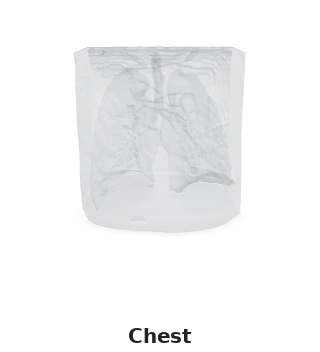
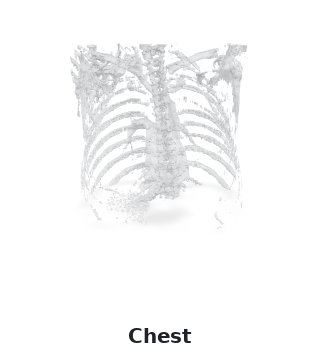
Show clearer Chest Abdomen and Pancreas visualization previews

Changed region(s): [[0.2188, 0.125, 0.7812, 0.6875]]

diff --git a/README.md b/README.md
@@ -34,9 +34,9 @@ This is the official implementation of our ECCV 2024 paper "Radiative Gaussian S
 
 <h3 align="center"><img src="fig/exported-mesh-heading.svg" width="600" height="40" alt="Exported Meshes - Click each to open its interactive viewer"></h3>
 
-<p align="center"><a href="https://caiyuanhao1998.github.io/project/X-Gaussian/viewer/index.html?scene=chest"><img src="fig/meshes/chest.png?v=front15" width="24%" alt="Chest exported mesh" title="Open interactive X-ray viewer"></a><a href="https://caiyuanhao1998.github.io/project/X-Gaussian/viewer/index.html?scene=foot"><img src="fig/meshes/foot.png?v=front15" width="24%" alt="Foot exported mesh" title="Open interactive X-ray viewer"></a><a href="https://caiyuanhao1998.github.io/project/X-Gaussian/viewer/index.html?scene=head"><img src="fig/meshes/head.png?v=front15" width="24%" alt="Head exported mesh" title="Open interactive X-ray viewer"></a><a href="https://caiyuanhao1998.github.io/project/X-Gaussian/viewer/index.html?scene=abdomen"><img src="fig/meshes/abdomen.png?v=front15" width="24%" alt="Abdomen exported mesh" title="Open interactive X-ray viewer"></a></p>
+<p align="center"><a href="https://caiyuanhao1998.github.io/project/X-Gaussian/viewer/index.html?scene=chest"><img src="fig/meshes/chest.png?v=clean-ring" width="24%" alt="Chest exported mesh" title="Open interactive X-ray viewer"></a><a href="https://caiyuanhao1998.github.io/project/X-Gaussian/viewer/index.html?scene=foot"><img src="fig/meshes/foot.png?v=front15" width="24%" alt="Foot exported mesh" title="Open interactive X-ray viewer"></a><a href="https://caiyuanhao1998.github.io/project/X-Gaussian/viewer/index.html?scene=head"><img src="fig/meshes/head.png?v=front15" width="24%" alt="Head exported mesh" title="Open interactive X-ray viewer"></a><a href="https://caiyuanhao1998.github.io/project/X-Gaussian/viewer/index.html?scene=abdomen"><img src="fig/meshes/abdomen.png?v=clean-ring" width="24%" alt="Abdomen exported mesh" title="Open interactive X-ray viewer"></a></p>
 
-<p align="center"><a href="https://caiyuanhao1998.github.io/project/X-Gaussian/viewer/index.html?scene=pancreas"><img src="fig/meshes/pancreas.png?v=front15" width="24%" alt="Pancreas exported mesh" title="Open interactive X-ray viewer"></a><a href="https://caiyuanhao1998.github.io/project/X-Gaussian/viewer/index.html?scene=pine"><img src="fig/meshes/pine.png?v=front15" width="24%" alt="Pine exported mesh" title="Open interactive X-ray viewer"></a><a href="https://caiyuanhao1998.github.io/project/X-Gaussian/viewer/index.html?scene=seashell"><img src="fig/meshes/seashell.png?v=front15" width="24%" alt="Seashell exported mesh" title="Open interactive X-ray viewer"></a><a href="https://caiyuanhao1998.github.io/project/X-Gaussian/viewer/index.html?scene=walnut"><img src="fig/meshes/walnut.png?v=front15" width="24%" alt="Walnut exported mesh" title="Open interactive X-ray viewer"></a></p>
+<p align="center"><a href="https://caiyuanhao1998.github.io/project/X-Gaussian/viewer/index.html?scene=pancreas"><img src="fig/meshes/pancreas.png?v=clean-ring" width="24%" alt="Pancreas exported mesh" title="Open interactive X-ray viewer"></a><a href="https://caiyuanhao1998.github.io/project/X-Gaussian/viewer/index.html?scene=pine"><img src="fig/meshes/pine.png?v=front15" width="24%" alt="Pine exported mesh" title="Open interactive X-ray viewer"></a><a href="https://caiyuanhao1998.github.io/project/X-Gaussian/viewer/index.html?scene=seashell"><img src="fig/meshes/seashell.png?v=front15" width="24%" alt="Seashell exported mesh" title="Open interactive X-ray viewer"></a><a href="https://caiyuanhao1998.github.io/project/X-Gaussian/viewer/index.html?scene=walnut"><img src="fig/meshes/walnut.png?v=front15" width="24%" alt="Walnut exported mesh" title="Open interactive X-ray viewer"></a></p>
 
 ### News
 - **2026.11.14 :** We launched our [project page](https://caiyuanhao1998.github.io/project/X-Gaussian/) and released [CT meshes](https://huggingface.co/datasets/CaiYuanhao/X-Gaussian/tree/main/meshes) and [interactive X-ray visualizations](https://caiyuanhao1998.github.io/project/X-Gaussian/viewer/index.html?scene=head).
